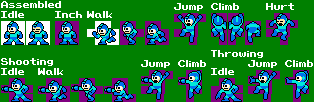
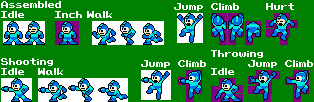
adding animation on player state

diff --git a/Scene_Play.cpp b/Scene_Play.cpp
@@ -173,6 +173,8 @@ void Scene_Play::onEnd()
 {
 	// change scene to scene menu when end
 	m_game->changeScene(MenuScene, std::make_shared<Scene_Menu>(m_game), true);
+
+	m_game->window().setView(m_game->window().getDefaultView());
 }
 
 void Scene_Play::sDoAction(const Action& action)
@@ -189,7 +191,22 @@ void Scene_Play::sDoAction(const Action& action)
 			case Jump: m_player->getComponent<CInput>().up = true; break;
 			case Right: m_player->getComponent<CInput>().right = true; break;
 			case Left: m_player->getComponent<CInput>().left = true; break;
-			case Shoot: m_player->getComponent<CInput>().shoot = true; break;
+			case Shoot: 
+				if (m_player->getComponent<CInput>().canShoot)
+				{
+					spawnBullet(m_player);
+
+					if (m_player->getComponent<CState>().state == onWalk)
+						m_player->getComponent<CState>().state = onShootWalk;
+
+					if (m_player->getComponent<CState>().state == onGround)
+						m_player->getComponent<CState>().state = onShoot;
+
+					if (m_player->getComponent<CState>().state == onAir)
+						m_player->getComponent<CState>().state = onShootAir;
+
+					m_player->getComponent<CInput>().canShoot = false; break;
+				}
 			default: break;
 		}
 	}
@@ -201,7 +218,9 @@ void Scene_Play::sDoAction(const Action& action)
 			case Jump: m_player->getComponent<CInput>().up = false; break;
 			case Right: m_player->getComponent<CInput>().right = false; break;
 			case Left: m_player->getComponent<CInput>().left = false; break;
-			case Shoot: m_player->getComponent<CInput>().shoot = false; break;
+			case Shoot: 
+				m_player->getComponent<CState>().state = onAir;
+				m_player->getComponent<CInput>().canShoot = true; break;
 			default: break;
 		}
 	}
@@ -237,7 +256,16 @@ void Scene_Play::sCollision()
 				{
 					if (prevDiff.y < 0)
 					{
-						m_player->getComponent<CState>().state = onGround;
+						if (m_player->getComponent<CState>().state != onShoot && m_player->getComponent<CInput>().canShoot)
+						{
+							m_player->getComponent<CState>().state = onGround;
+						}
+
+						if (m_player->getComponent<CState>().state == onShootAir)
+						{
+							m_player->getComponent<CState>().state = onShoot;
+						}
+
 						m_player->getComponent<CTransform>().pos.y -= ol.y;
 						m_player->getComponent<CTransform>().velocity.y -= ol.y;
 					}
@@ -245,6 +273,7 @@ void Scene_Play::sCollision()
 					{
 						m_player->getComponent<CTransform>().pos.y += ol.y;
 						m_player->getComponent<CTransform>().velocity.y += ol.y;
+						e->destroy();
 					}
 				}
 
@@ -262,6 +291,11 @@ void Scene_Play::sCollision()
 					}
 				}
 			}
+
+			if (m_player->getComponent<CTransform>().pos.x < m_player->getComponent<CBoundingBox>().halfSize.x)
+			{
+				m_player->getComponent<CTransform>().pos.x = m_player->getComponent<CBoundingBox>().halfSize.x;
+			}
 		}
 	}
 }
@@ -274,8 +308,43 @@ void Scene_Play::sAnimation()
 		if (e->hasComponent<CAnimation>())
 		{
 			e->getComponent<CAnimation>().animation.update();
-			e->getComponent<CAnimation>().animation.hasEnded();
 		}
+	}
+
+	switch (m_player->getComponent<CState>().state)
+	{
+	case onAir: 
+		if (m_player->getComponent<CAnimation>().animation.getName() != AniJump)
+			m_player->addComponent<CAnimation>(m_game->assets().getAnimation(AniJump), true);
+		break;
+
+	case onGround:
+		if (m_player->getComponent<CAnimation>().animation.getName() != AniStand)
+			m_player->addComponent<CAnimation>(m_game->assets().getAnimation(AniStand), true);
+		break;
+
+	case onWalk:
+		if (m_player->getComponent<CAnimation>().animation.getName() != AniWalk)
+			m_player->addComponent<CAnimation>(m_game->assets().getAnimation(AniWalk), true);
+		break;
+
+	case onShoot:
+		if (m_player->getComponent<CAnimation>().animation.getName() != AniShoot)
+			m_player->addComponent<CAnimation>(m_game->assets().getAnimation(AniShoot), true);
+		break;
+
+	case onShootAir:
+		if (m_player->getComponent<CAnimation>().animation.getName() != AniShootAir)
+			m_player->addComponent<CAnimation>(m_game->assets().getAnimation(AniShootAir), true);
+		break;
+
+	case onShootWalk:
+		if (m_player->getComponent<CAnimation>().animation.getName() != AniShootWalk)
+			m_player->addComponent<CAnimation>(m_game->assets().getAnimation(AniShootWalk), true);
+		break;
+
+	default:
+		break;
 	}
 }
 
@@ -319,6 +388,11 @@ void Scene_Play::sMovement()
 	} 
 	else
 	{
+		if (m_player->getComponent<CState>().state == onGround)
+		{
+			m_player->getComponent<CState>().state = onWalk;
+		}
+
 		if (m_player->getComponent<CInput>().right && m_player->getComponent<CTransform>().velocity.x < 10)
 		{
 			m_player->getComponent<CTransform>().velocity.x += 1;
@@ -331,14 +405,11 @@ void Scene_Play::sMovement()
 
 		if (m_player->getComponent<CInput>().left && m_player->getComponent<CTransform>().velocity.x > -10)
 		{
-			if (m_player->getComponent<CTransform>().pos.x > 64)
-			{
-				m_player->getComponent<CTransform>().velocity.x -= 1;
+			m_player->getComponent<CTransform>().velocity.x -= 1;
 
-				if (m_player->getComponent<CTransform>().scale.x < 0)
-				{
-					m_player->getComponent<CTransform>().scale.x *= -1;
-				}
+			if (m_player->getComponent<CTransform>().scale.x < 0)
+			{
+				m_player->getComponent<CTransform>().scale.x *= -1;
 			}
 		}
 	}
@@ -444,7 +515,7 @@ void Scene_Play::spawnPlayer()
 	// rotate
 	p->getComponent<CTransform>().scale.x *= -1;
 
-	gridToMidPixel(0, 2, p);
+	gridToMidPixel(0, 3, p);
 	m_player = p;
 }
 

diff --git a/GameEngine.cpp b/GameEngine.cpp
@@ -24,7 +24,10 @@ static std::map<std::string, EnumTexture> const textureTable =
 static std::map<std::string, EnumAnimation> const animTable =
 {
 	{"AniGround", EnumAnimation::AniGround}, {"AniBrick", EnumAnimation::AniBrick}, 
-	{"AniBlockCoin", EnumAnimation::AniBlockCoin}, {"AniStand", EnumAnimation::AniStand}
+	{"AniBlockCoin", EnumAnimation::AniBlockCoin}, {"AniStand", EnumAnimation::AniStand},
+	{"AniWalk", EnumAnimation::AniWalk}, {"AniJump", EnumAnimation::AniJump},
+	{"AniShoot", EnumAnimation::AniShoot}, {"AniShootWalk", EnumAnimation::AniShootWalk},
+	{"AniShootAir", EnumAnimation::AniShootAir}
 };
 
 GameEngine::GameEngine(const std::string& path)
@@ -135,21 +138,23 @@ void GameEngine::init(const std::string& path)
 					cout << "cannot find texture associated with " << texture << endl;
 				}
 				else {
-					m_assets.addAniType(it->second, ut->second, frameCout, duration);
+					// register animation to texture
+					m_assets.registerAnimation(it->second, ut->second, frameCout, duration, Vec2(16, 16));
 					cout << name << " loaded" << endl;
 				}
 			}
 		}
 	}
 
-	// register animation to texture
-	for (auto it = animTable.begin(); it != animTable.end(); it++)
-	{
-		m_assets.registerAnimation(it->second, Vec2(16, 16));
-	}
+	// init animation
 	m_assets.getAnimation(AniBrick).setIntRect(17, 0);
 	m_assets.getAnimation(AniGround).setIntRect(0, 0);
 	m_assets.getAnimation(AniStand).setIntRect(3, 22, 21, 23);
+	m_assets.getAnimation(AniWalk).setIntRect(92, 21, 24, 24);
+	m_assets.getAnimation(AniJump).setIntRect(177, 13, 26, 30);
+	m_assets.getAnimation(AniShoot).setIntRect(1, 78, 31, 24);
+	m_assets.getAnimation(AniShootAir).setIntRect(141, 70, 30, 30);
+	m_assets.getAnimation(AniShootWalk).setIntRect(38, 78, 30, 24);
 }
 
 void GameEngine::run()

diff --git a/Animation.cpp b/Animation.cpp
@@ -18,13 +18,17 @@ Animation::Animation(EnumAnimation name, const sf::Texture& t, size_t frameCount
 }
 
 // setter
-void Animation::setIntRect(int x, int y)
+void Animation::setIntRect(int x, int y, int space)
 {
+	m_space = space;
+	m_initPos = Vec2(x, y);
 	m_sprite.setTextureRect(sf::IntRect(x, y, (int) m_size.x, (int) m_size.y));
 }
 
-void Animation::setIntRect(int x, int y, int sizeX, int sizeY)
+void Animation::setIntRect(int x, int y, int sizeX, int sizeY, int space)
 {
+	m_space = space;
+	m_initPos = Vec2(x, y);
 	m_size = Vec2(sizeX, sizeY);
 	m_sprite.setOrigin(m_size.x / 2, m_size.y / 2);
 	m_sprite.setTextureRect(sf::IntRect(x, y, m_size.x, m_size.y));
@@ -39,7 +43,7 @@ void Animation::update()
 		int indexTexture = (m_currentFrame / m_frameDuration) % m_frameCount;
 
 		// set texture rectangle properly
-		m_sprite.setTextureRect(sf::IntRect(indexTexture * m_size.x, m_sprite.getTextureRect().getPosition().y, m_size.x, m_size.y));
+		m_sprite.setTextureRect(sf::IntRect(m_initPos.x + (indexTexture * m_size.x + m_space), m_initPos.y, m_size.x, m_size.y));
 
 		m_currentFrame++;
 	}

diff --git a/Animation.hpp b/Animation.hpp
@@ -4,7 +4,7 @@
 
 #include <SFML/Graphics.hpp>
 
-enum EnumAnimation { AniDefault = -1, AniWalk, AniBlockCoin, AniGround, AniBrick, AniStand, ANI_COUNT = AniStand + 1 };
+enum EnumAnimation { AniDefault = -1, AniWalk, AniBlockCoin, AniShootAir, AniGround, AniShoot, AniShootWalk, AniJump, AniBrick, AniStand, ANI_COUNT = AniStand + 1 };
 
 class Animation
 {
@@ -13,7 +13,9 @@ class Animation
 	size_t m_frameCount = 0;
 	size_t m_currentFrame = 0;
 	size_t m_frameDuration = 0;
+	size_t m_space = 0;
 	Vec2 m_size = Vec2(0.0f, 0.0f);
+	Vec2 m_initPos = Vec2(0.0f, 0.0f);
 
 
 public:
@@ -24,8 +26,8 @@ public:
 	void update();
 
 	// setter
-	void setIntRect(int x, int y);
-	void setIntRect(int x, int y, int sizeX, int sizeY);
+	void setIntRect(int x, int y, int space = 0);
+	void setIntRect(int x, int y, int sizeX, int sizeY, int space = 0);
 
 	// getter
 	const Vec2& getSize() const;

diff --git a/Assets.cpp b/Assets.cpp
@@ -44,21 +44,6 @@ void Assets::addSound(EnumSound name, const std::string& path)
 	m_sounds[name] = sound;
 };
 
-void Assets::addAniType(EnumAnimation name, EnumTexture texture, int frameCount, int frameDuration)
-{
-	auto& aniType = m_aniType[name];
-	aniType.name = name;
-	aniType.texture = texture;
-	aniType.frameCount = frameCount;
-	aniType.frameDuration = frameDuration;
-}
-
-void Assets::registerAnimation(EnumAnimation name, Vec2 size)
-{
-	auto& type = m_aniType[name];
-	addAnimation(name, Animation(type.name, getTexture(type.texture), type.frameCount, type.frameDuration, size));
-}
-
 void Assets::registerAnimation(EnumAnimation name, EnumTexture texture, int frameCount, int duration, Vec2 size)
 {
 	addAnimation(name, Animation(name, getTexture(texture), frameCount, duration, size));

diff --git a/Assets.hpp b/Assets.hpp
@@ -31,8 +31,6 @@ public:
 	void addAnimation(EnumAnimation name, Animation animation);
 	void addFont(EnumFont name, const std::string& path);
 	void addSound(EnumSound name, const std::string& path);
-	void addAniType(EnumAnimation name, EnumTexture texture, int frameCount, int frameDuration);
-	void registerAnimation(EnumAnimation name, Vec2 size);
 	void registerAnimation(EnumAnimation name, EnumTexture texture, int frameCount, int duration, Vec2 size);
 
 	// getter

diff --git a/Components.hpp b/Components.hpp
@@ -69,7 +69,7 @@ public:
 	bool left = false;
 	bool right = false;
 	bool down = false;
-	bool shoot = false;
+	bool canShoot = true;
 
 	CInput();
 };
@@ -93,7 +93,7 @@ public:
 	CGravity(float accel);
 };
 
-enum EnumState { onDefault = -1, onGround, onAir, onRun, onStand, STATE_COUNT = onStand + 1 };
+enum EnumState { onDefault = -1, onGround, onAir, onShootAir, onShootWalk, onShoot, onWalk, onStand, STATE_COUNT = onStand + 1 };
 
 class CState : public Component
 {
